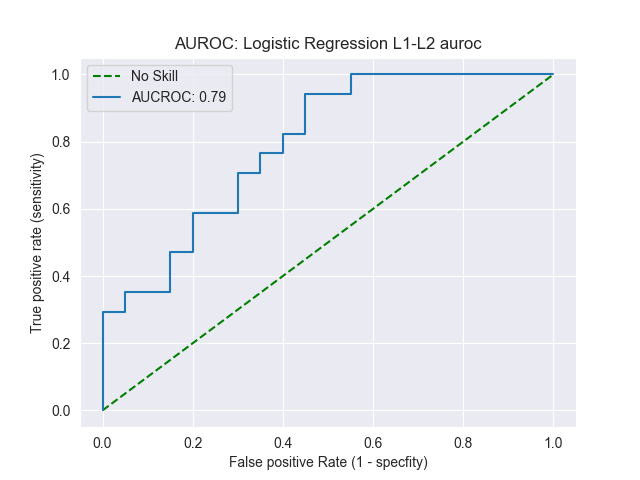
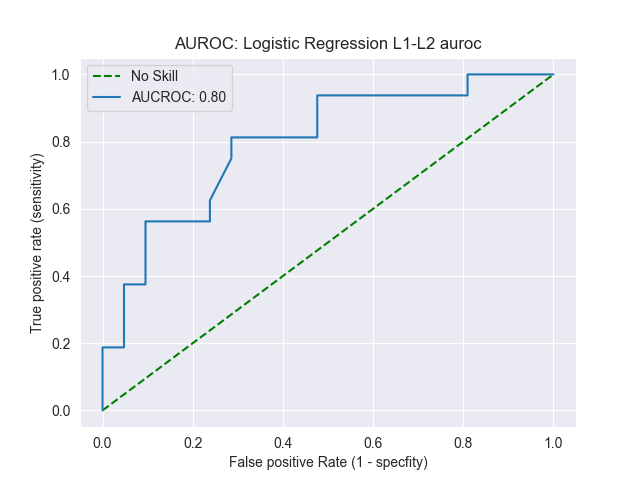
feat: update seed value

diff --git a/app/services/training_service.py b/app/services/training_service.py
@@ -45,7 +45,7 @@ class TrainingService(metaclass=SingletonMeta):
         # Split dataset in training and test
         x_values = df[word_columns]
         y_values = df['sentiment']
-        seed = 1
+        seed = 50
 
         x_train, x_test, y_train, y_test = train_test_split(
             x_values,
